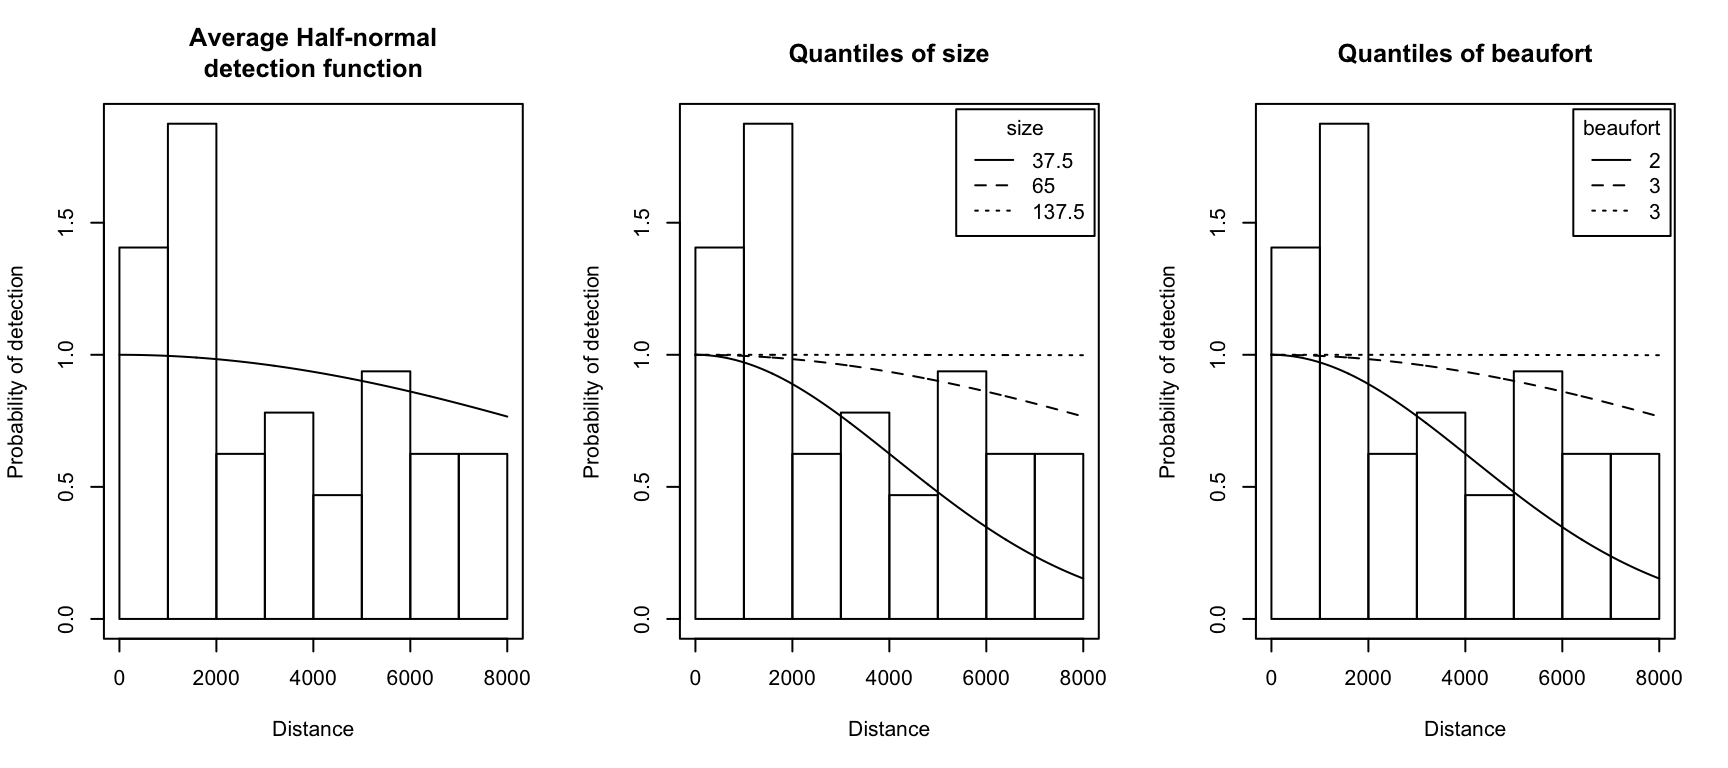
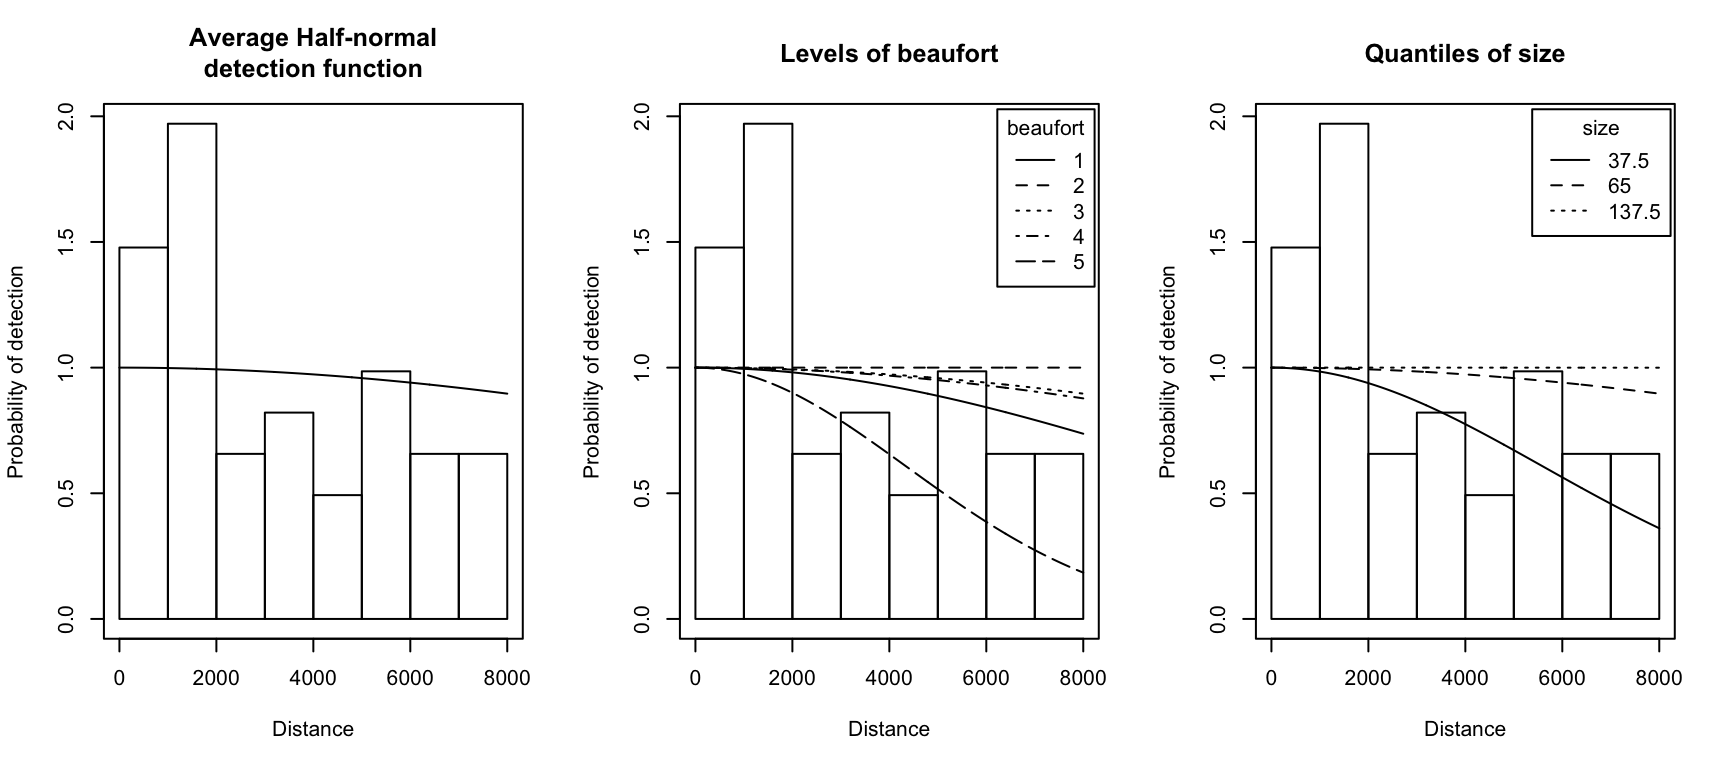
fixed covariate plotting issue

diff --git a/distance-covardf.html b/distance-covardf.html
@@ -138,8 +138,8 @@ img {
         <li class="dropdown">
           <a class="dropdown-toggle" data-toggle="dropdown" href="#" id="sp">Spatial modelling <span class="caret"></span></a>
           <ul class="dropdown-menu" aria-labelledby="sp">
-            <li><a href="dsm-.html">Why build spatial models?</a></li>
-            <li><a href="dsm-.html">Survey set up</a></li>
+            <li><a href="dsm-why.html">Why build spatial models?</a></li>
+            <li><a href="dsm-surveysetup.html">Survey data set up</a></li>
             <li><a href="dsm-.html">Model formulation</a></li>
             <li><a href="dsm-.html">Crash course in GAMs</a></li>
             <li><a href="dsm-.html">Adding covariates</a></li>
@@ -179,7 +179,7 @@ img {
 
 
 <p>In the last chapter we looked at how we could model the probability of an animal being detected using the distances to the animals from the transect. A little thought leads us to believe that in addition to distance, other factors will influence the detection probability. For example: a pod of 50 whales will be much easier to spot than a single whale; it’s harder to see birds early in the morning when it’s dark and misty; and it’s much more difficult to see (or do) anything when the sea is extremely choppy. We’d like to take these factors into account when we’re building our detection function, to ensure that we can model the detection process as accurately as possible.</p>
-<p>Distance sampling methods have a property known as <em>pooling robustness</em> which means that if we assume that the heterogeneity in detectability is relatively small (i.e. there’s not much variation between animals in how detectable they are), then estimates of abundance will not be biased (though they might have high variance; <span class="citation">Burnham et al. (2004)</span>, Section 11.12). This means that usually we do not need to worry about bias but if we can model the heterogeneity in detectability then we can improve the precision of our abundance estimates @[Marques:2007ey].</p>
+<p>Distance sampling methods have a property known as <em>pooling robustness</em> which means that if we assume that the heterogeneity in detectability is relatively small (i.e. there’s not much variation between animals in how detectable they are), then estimates of abundance will not be biased (though they might have high variance; <span class="citation">Burnham et al. (2004)</span>, Section 11.12). This means that usually we do not need to worry about bias but if we can model the heterogeneity in detectability then we can improve the precision of our abundance estimates <span class="citation">(Marques et al., 2007)</span>.</p>
 Let’s return to the pantropical spotted dolphin example from the previous chapter. During the survey data was collected on Beaufort sea state – a measure of the roughness of the sea (1 is “light air” with small waves, 5 “”fresh breeze&quot; with moderate waves<a href="#fn1" class="footnoteRef" id="fnref1"><sup>1</sup></a>). Observers also recorded the size of each group of dolphins that were detected. We can plot these against the observed distances…
 <figure>
 <img src='distance-covardf_files/figure-html/dolphins-seastate-size-distance-1.png' width='864'height=''width.px='864'height.px='480' style='display: block'>
@@ -251,34 +251,40 @@ Figure 3: Probability of detection plotted against observed group size, we can s
 </figure>
 <div id="adding-and-selecting-covariates" class="section level2">
 <h2>Adding and selecting covariates</h2>
-<p>We can add the Beaufort sea state covariate into the model, alongside group size by simply adding it into the formula:</p>
-<pre class="r"><code>hn.dolphins.size.beaufort &lt;- ds(mexdolphins, truncation=8000, model=df(scale=~size+beaufort))
-summary(hn.dolphins.size.beaufort)</code></pre>
+<p>We can add the Beaufort sea state covariate into the model, alongside group size by simply adding it into the formula. Before doing so we ensure that sea state is a factor covariate:</p>
+<pre class="r"><code>mexdolphins$beaufort &lt;- as.factor(mexdolphins$beaufort)
+hn.dolphins.size.beaufort &lt;- ds(mexdolphins, truncation=8000, model=df(scale=~size+beaufort))</code></pre>
+<pre><code>## Warning in ds(mexdolphins, truncation = 8000, model = df(scale = ~size + :
+## Unable to invert Hessian: using pseduo-inverse</code></pre>
+<pre class="r"><code>summary(hn.dolphins.size.beaufort)</code></pre>
 <pre><code>## Summary of fitted detection function
 ## Transect type          : line 
 ## Number of observations : 47 
 ## Distance range         : 0 - 8000 
-## AIC                    : 838.0804 
+## AIC                    : 838.1266 
 ## 
 ## Detection function     : Half-normal 
 ## 
 ## Detection function parameters
-##                Estimate         SE
-## (Intercept)  7.22546807 0.84487444
-## size         0.03550552 0.01824181
-## beaufort    -0.07713286 0.21526846
+##                Estimate           SE
+## (Intercept)  6.59546436 1.330671e+00
+## size         0.04059144 3.299831e-02
+## beaufort2    8.29262592 9.043820e+06
+## beaufort3    0.51333594 8.863909e-01
+## beaufort4    0.42457606 1.364223e+00
+## beaufort5   -0.85601876 8.281355e-01
 ## 
-## Kolmogorov-Smirnov p-value : 0.9323762 
-## Cramer-von Mises p-value   : 0.8408719 
+## Kolmogorov-Smirnov p-value : 0.8545092 
+## Cramer-von Mises p-value   : 0.908566 
 ## 
 ##            Estimate        SE        CV
-## Average p 0.6578791 0.1212438 0.1842949</code></pre>
+## Average p 0.5717546 0.1711626 0.2993637</code></pre>
 <p>As Beaufort sea state is included as a factor covariate, which gives us a number of extra parameters in the model. We can see the effect of adding the covariate in a plot:</p>
 <pre class="r"><code>plot(hn.dolphins.size.beaufort)</code></pre>
 <figure>
 <img src='distance-covardf_files/figure-html/dolphins-covar-beaufort-plot-1.png' width='864'height=''width.px='864'height.px='384' style='display: block'>
 <figcaption>
-Figure 4: Fitted detection function for the pantropical spotted dolphin data where the size and Beaufort sea state were included as covariates. Left plot shows the detection function when size and Beaufort sea state are fixed at their median value; the middle plot shows the detection function with size held at its median value and Beaufort sea state varying where as the right plot shows the effect varying group size over its quantile values and fixing Beaufort sea state at its median.
+Figure 4: Fitted detection function for the pantropical spotted dolphin data where the size and Beaufort sea state were included as covariates. Left plot shows the detection function when size and Beaufort sea state are fixed at their median values. The middle plot shows the detection function with size held at its median value and Beaufort sea state varying, where as the right plot shows the effect varying group size over its quantile values and fixing Beaufort sea state at its median.
 </figcaption>
 </figure>
 <p>The middle plot above shows that there is little difference in the lower sea states, but a considerable difference once we get to sea state 5, when we see a much faster decrease in probability of detection.</p>
@@ -291,26 +297,31 @@ Figure 5: Comparison of quantile-quantile plots for two models fitted to the spo
 </figcaption>
 </figure>
 <p>We can compare the models that we’ve fitted so far in a table, but we first fit a model with only Beaufort sea state as a covariate, so complete the set of model combinations:</p>
-<pre class="r"><code>hn.dolphins.beaufort &lt;- ds(mexdolphins, truncation=8000, model=df(scale=~beaufort))
-summary(hn.dolphins.beaufort)</code></pre>
+<pre class="r"><code>hn.dolphins.beaufort &lt;- ds(mexdolphins, truncation=8000, model=df(scale=~beaufort))</code></pre>
+<pre><code>## Warning in ds(mexdolphins, truncation = 8000, model = df(scale =
+## ~beaufort)): Unable to invert Hessian: using pseduo-inverse</code></pre>
+<pre class="r"><code>summary(hn.dolphins.beaufort)</code></pre>
 <pre><code>## Summary of fitted detection function
 ## Transect type          : line 
 ## Number of observations : 47 
 ## Distance range         : 0 - 8000 
-## AIC                    : 845.5795 
+## AIC                    : 846.0192 
 ## 
 ## Detection function     : Half-normal 
 ## 
 ## Detection function parameters
-##              Estimate       SE
-## (Intercept) 7.3023491 1.797247
-## beaufort    0.9271288 1.735011
+##               Estimate           SE
+## (Intercept)  8.1816931 2.576122e-01
+## beaufort2    8.7871511 1.225235e+07
+## beaufort3    0.3839194 4.283888e-01
+## beaufort4   -0.0619388 4.621588e-01
+## beaufort5    0.3542033 5.984973e-01
 ## 
-## Kolmogorov-Smirnov p-value : 0.2107792 
-## Cramer-von Mises p-value   : 0.1330294 
+## Kolmogorov-Smirnov p-value : 0.4006785 
+## Cramer-von Mises p-value   : 0.5706475 
 ## 
 ##            Estimate        SE        CV
-## Average p 0.8389978 0.1636875 0.1950988</code></pre>
+## Average p 0.6693629 0.1268596 0.1895229</code></pre>
 <p>We can now build a table<a href="#fn5" class="footnoteRef" id="fnref5"><sup>5</sup></a> :</p>
 <table>
 <thead>
@@ -338,10 +349,10 @@ summary(hn.dolphins.beaufort)</code></pre>
 <td align="left">4</td>
 <td align="left">Half-normal</td>
 <td align="left">~size + beaufort</td>
-<td align="right">3</td>
-<td align="right">0.6578791</td>
-<td align="right">0.1842949</td>
-<td align="right">838.0804</td>
+<td align="right">6</td>
+<td align="right">0.5717546</td>
+<td align="right">0.2993637</td>
+<td align="right">838.1266</td>
 </tr>
 <tr class="odd">
 <td align="left">1</td>
@@ -356,10 +367,10 @@ summary(hn.dolphins.beaufort)</code></pre>
 <td align="left">3</td>
 <td align="left">Half-normal</td>
 <td align="left">~beaufort</td>
-<td align="right">2</td>
-<td align="right">0.8389978</td>
-<td align="right">0.1950988</td>
-<td align="right">845.5795</td>
+<td align="right">5</td>
+<td align="right">0.6693629</td>
+<td align="right">0.1895229</td>
+<td align="right">846.0192</td>
 </tr>
 </tbody>
 </table>
